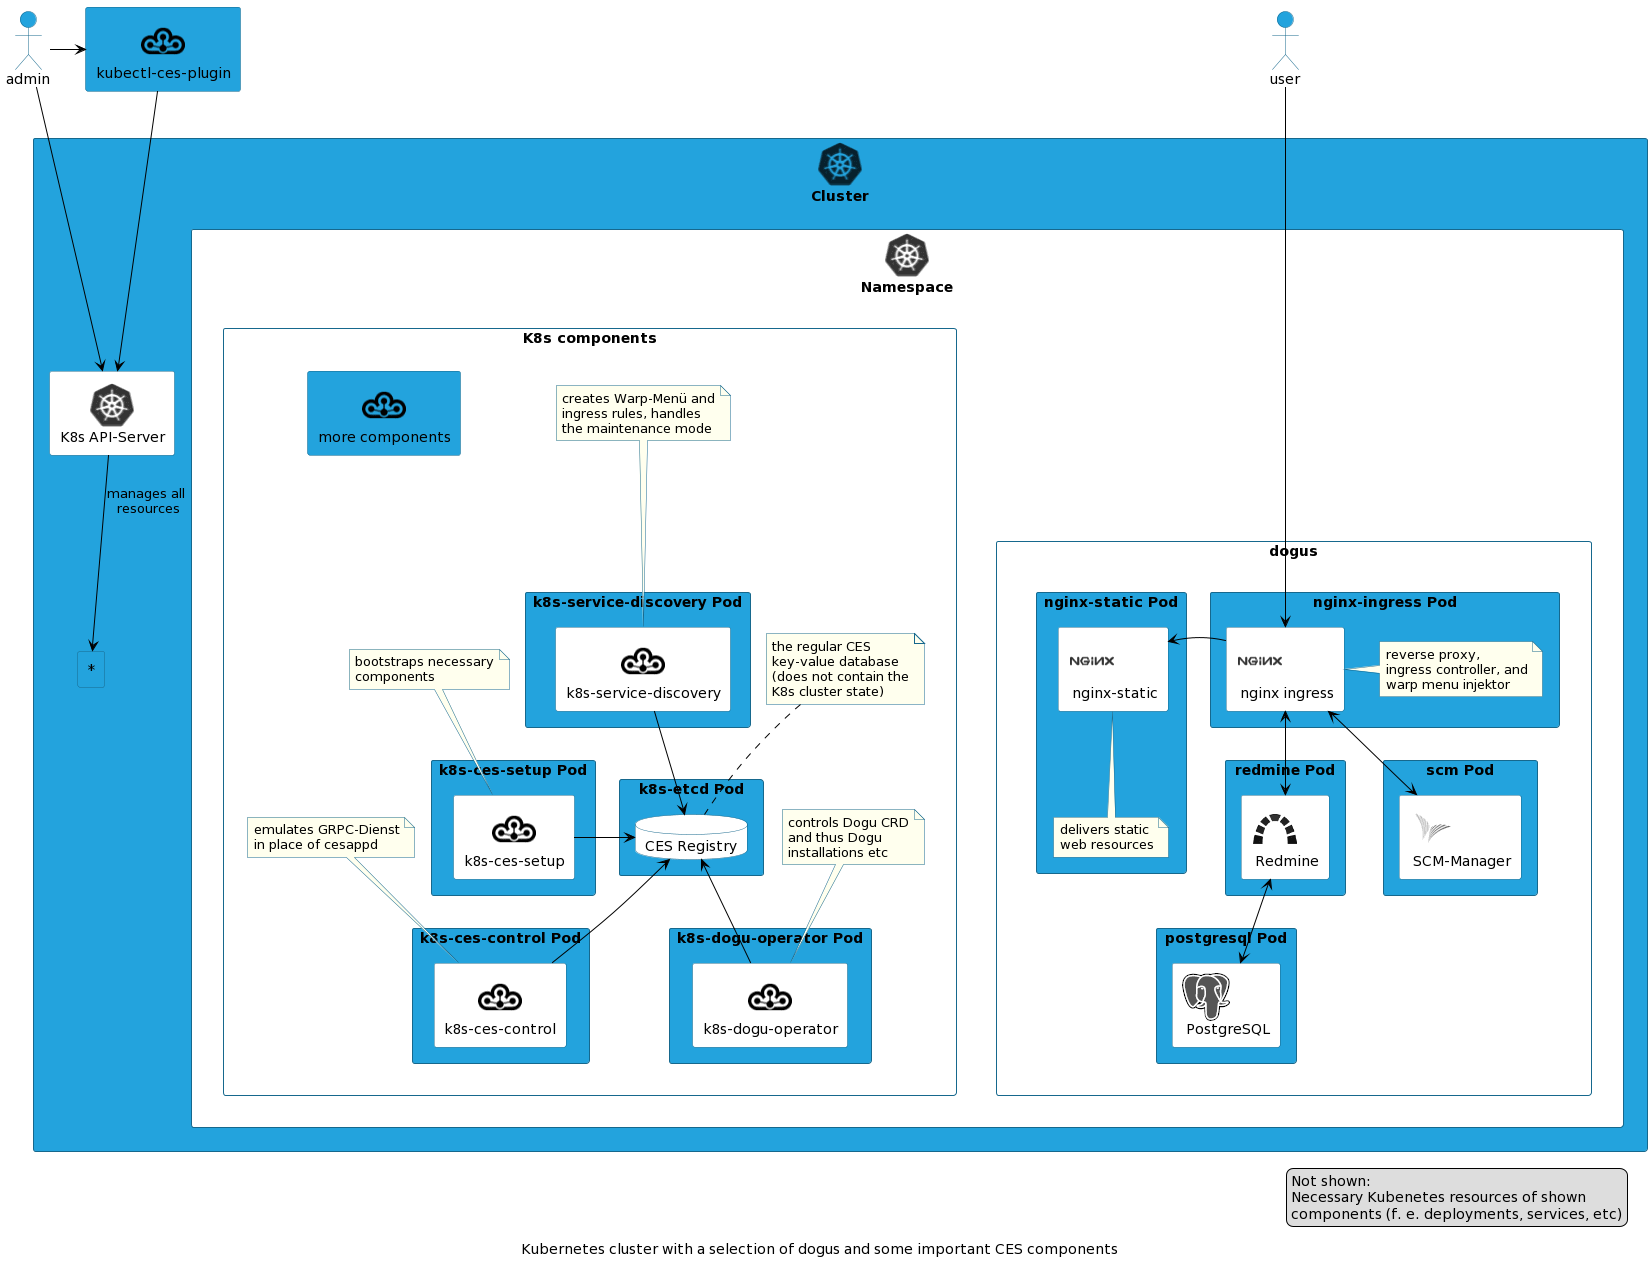
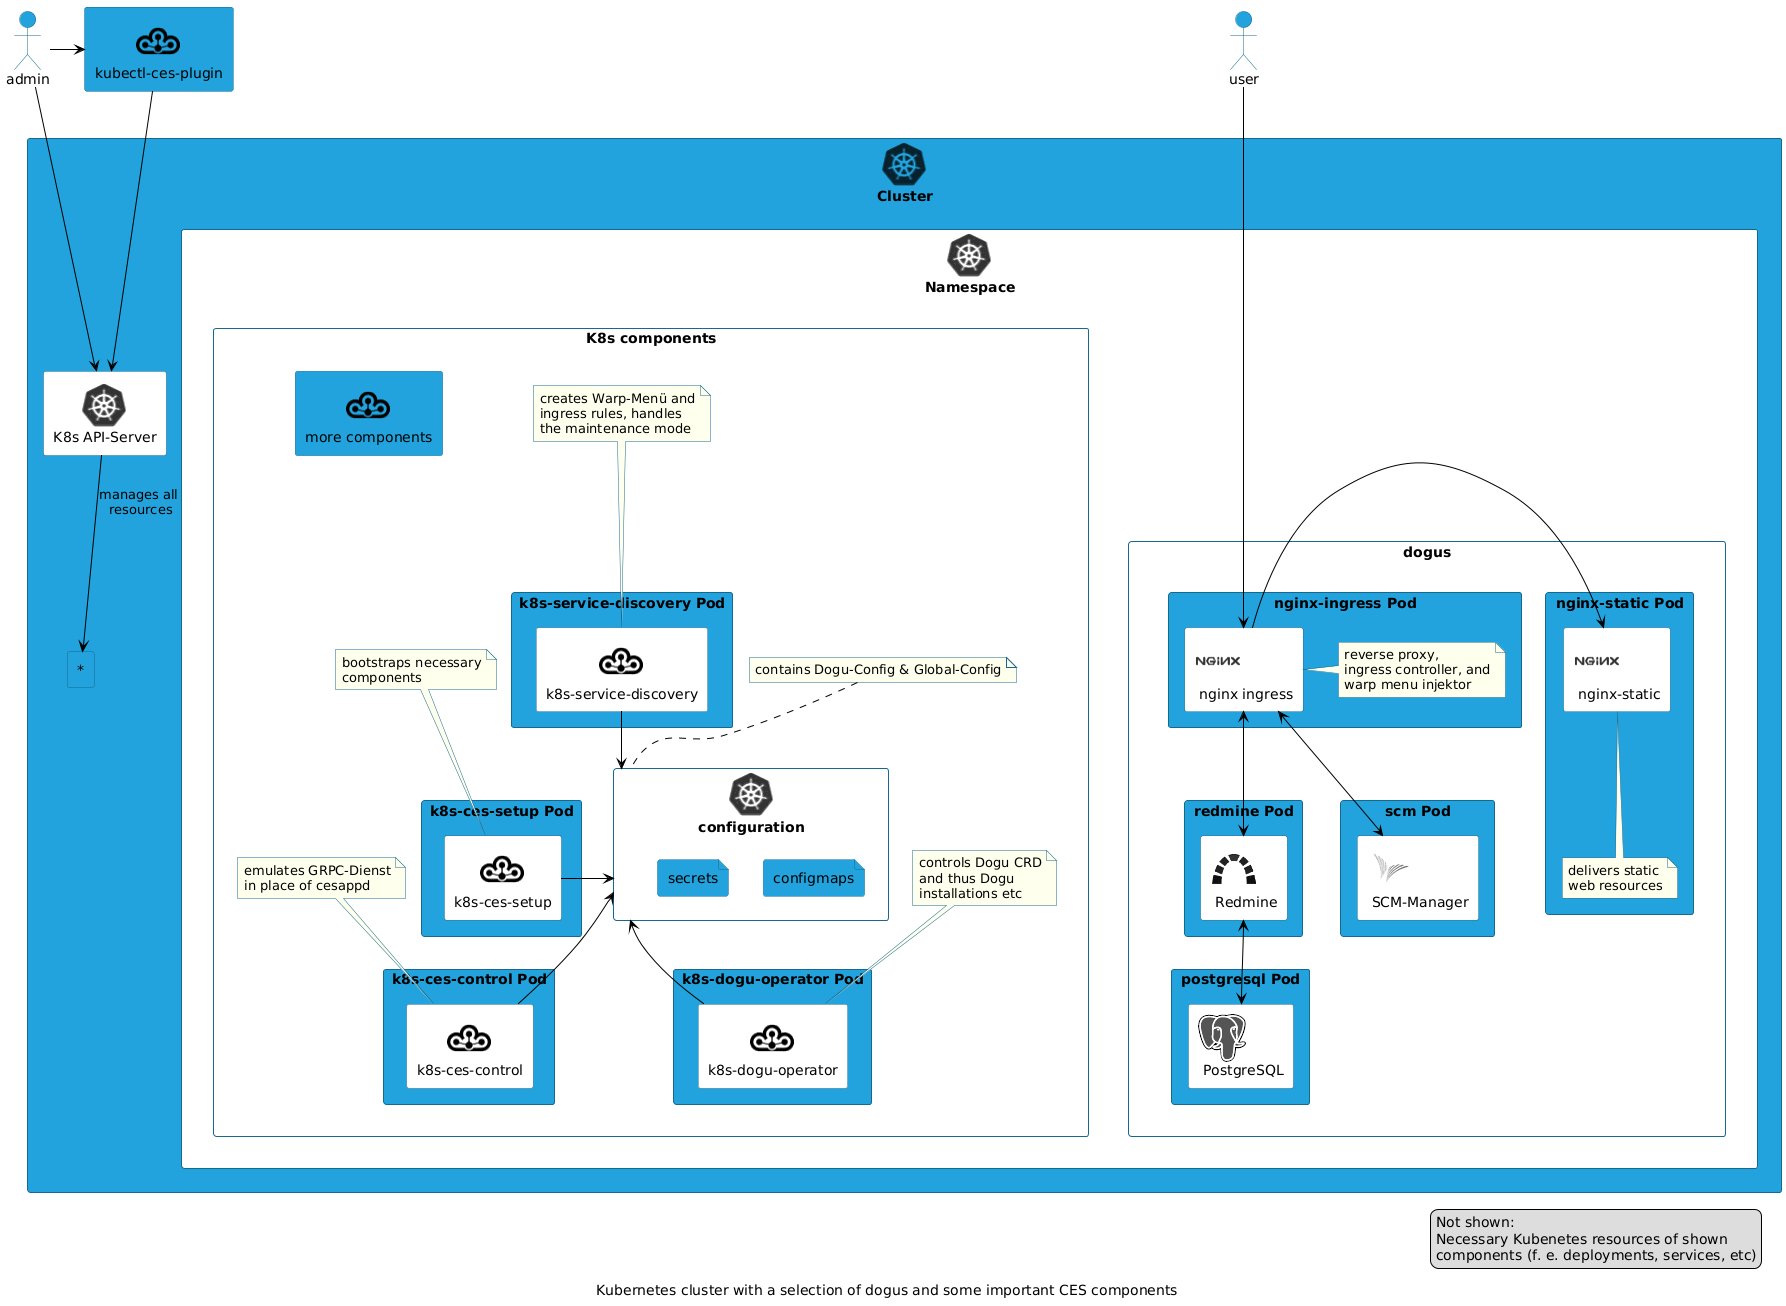
#109 - Remove ETCD from docs

diff --git a/docs/operations/how_to_handle_network_changes_de.md b/docs/operations/how_to_handle_network_changes_de.md
@@ -34,7 +34,9 @@ den FQDN in der lokalen Registry und den zugehörigen SSL-Zertifikaten anzupasse
 Die Konfiguration des FQDN im CES kann wie folgt geändert werden:
 
 ```bash
-kubectl exec -it etcd-client -- etcdctl set /config/_global/fqdn your.new.fqdn
+kubectl get configmap global-config -n ecosystem -o yaml | \
+yq eval '.data["config.yaml"] |= (from_yaml | .fqdn = "your.new.fqdn" | to_yaml)' - | \
+kubectl apply -f -
 ```
 
 Gegebenenfalls müssen auch die eigenen DNS- oder `/etc/hosts`-Einträge an den neuen FQDN angepasst werden.
@@ -47,14 +49,34 @@ generiert oder von einem externen Zertifikatsaussteller stammen.
 1. [SSL-Vorlage] erstellen (https://github.com/cloudogu/ces-commons/blob/develop/deb/etc/ces/ssl.conf.tpl)
 2. Zertifikat und Schlüssel generieren (
    siehe [`ces-commons`](https://github.com/cloudogu/ces-commons/blob/develop/deb/usr/local/bin/ssl.sh))
-3. Zertifikate und alle Zwischenzertifikate in `etcd` austauschen
-    1. kubectl exec -it etcd-client -- etcdctl set /config/_global/certificate/server.crt "IHRE ZERTIFIKATE HIER"`.
-    2. kubectl exec -it etcd-client -- etcdctl set /config/_global/certificate/server.key "IHR ZERTIFIKATSSCHLÜSSEL"`
+3. Zertifikate und alle Zwischenzertifikate in `global-config` Configmap austauschen
+   1. 
+      ```
+      kubectl get configmap global-config -n ecosystem -o yaml | \
+      yq eval '.data["config.yaml"] |= (from_yaml | .certificate["server.crt"] = "IHRE ZERTIFIKATE HIER" | to_yaml)' - | \
+      kubectl apply -f -
+      ```
+   2.
+      ```
+      kubectl get configmap global-config -n ecosystem -o yaml | \
+      yq eval '.data["config.yaml"] |= (from_yaml | .certificate["server.key"] = "IHR ZERTIFIKATSSCHLÜSSEL" | to_yaml)' - | \
+      kubectl apply -f -
+      ```
 4. Starten Sie alle Dogus neu.
 
 ### Zertifikate von externen Herausgebern
 
-1. Ersetzen Sie Zertifikate und alle Zwischenzertifikate in `etcd
-    1. kubectl exec -it etcd-client -- etcdctl set /config/_global/certificate/server.crt "IHRE ZERTIFIKATE"`
-    2. kubectl exec -it etcd-client -- etcdctl set /config/_global/certificate/server.key "IHR ZERTIFIKATSCHLÜSSEL"`
+1. Ersetzen Sie Zertifikate und alle Zwischenzertifikate in `global-config` Configmap
+   1.
+   ```
+   kubectl get configmap global-config -n ecosystem -o yaml | \
+   yq eval '.data["config.yaml"] |= (from_yaml | .certificate["server.crt"] = "IHRE ZERTIFIKATE HIER" | to_yaml)' - | \
+   kubectl apply -f -
+   ```
+   2.
+   ```
+   kubectl get configmap global-config -n ecosystem -o yaml | \
+   yq eval '.data["config.yaml"] |= (from_yaml | .certificate["server.key"] = "IHR ZERTIFIKATSSCHLÜSSEL" | to_yaml)' - | \
+   kubectl apply -f -
+   ```
 2. Starten Sie alle Dogus neu.

diff --git a/docs/operations/how_to_handle_network_changes_en.md b/docs/operations/how_to_handle_network_changes_en.md
@@ -31,7 +31,9 @@ local registry and the associated SSL certificates.
 The configuration of the FQDN in the CES can be changed as follows:
 
 ```bash
-kubectl exec -it etcd-client -- etcdctl set /config/_global/fqdn your.new.fqdn
+kubectl get configmap global-config -n ecosystem -o yaml | \
+yq eval '.data["config.yaml"] |= (from_yaml | .fqdn = "your.new.fqdn" | to_yaml)' - | \
+kubectl apply -f -
 ```
 
 If necessary, own DNS or `/etc/hosts` entries must also be adjusted to the new FQDN.
@@ -44,14 +46,32 @@ self-generated or from an external certificate issuer.
 1. create [SSL template](https://github.com/cloudogu/ces-commons/blob/develop/deb/etc/ces/ssl.conf.tpl)
 2. generate certificate and key (
    see [`ces-commons`](https://github.com/cloudogu/ces-commons/blob/develop/deb/usr/local/bin/ssl.sh))
-3. exchange certificates and all intermediate certificates in `etcd
-    1. `kubectl exec -it etcd-client -- etcdctl set /config/_global/certificate/server.crt "YOUR CERTIFICATES HERE"`.
-    2. `kubectl exec -it etcd-client -- etcdctl set /config/_global/certificate/server.key "YOUR CERTIFICATE KEY"`
-4. restart all dogus
+3. exchange certificates and all intermediate certificates in `global-config` configmap
+   1.
+   ```
+   kubectl get configmap global-config -n ecosystem -o yaml | \
+   yq eval '.data["config.yaml"] |= (from_yaml | .certificate["server.crt"] = "IHRE ZERTIFIKATE HIER" | to_yaml)' - | \
+   kubectl apply -f -
+   ```
+   2.
+   ```
+   kubectl get configmap global-config -n ecosystem -o yaml | \
+   yq eval '.data["config.yaml"] |= (from_yaml | .certificate["server.key"] = "IHR ZERTIFIKATSSCHLÜSSEL" | to_yaml)' - | \
+   kubectl apply -f -
+   ```4. restart all dogus
 
 ### Certificates from external issuers
 
-1. replace certificates and all intermediate certificates in `etcd
-    1. `kubectl exec -it etcd-client -- etcdctl set /config/_global/certificate/server.crt "YOUR CERTIFICATES HERE"`
-    2. `kubectl exec -it etcd-client -- etcdctl set /config/_global/certificate/server.key "YOUR CERTIFICATE KEY"`
-2. restart all dogus
+1. replace certificates and all intermediate certificates in `global-config` configmap
+   1.
+   ```
+   kubectl get configmap global-config -n ecosystem -o yaml | \
+   yq eval '.data["config.yaml"] |= (from_yaml | .certificate["server.crt"] = "IHRE ZERTIFIKATE HIER" | to_yaml)' - | \
+   kubectl apply -f -
+   ```
+   2.
+   ```
+   kubectl get configmap global-config -n ecosystem -o yaml | \
+   yq eval '.data["config.yaml"] |= (from_yaml | .certificate["server.key"] = "IHR ZERTIFIKATSSCHLÜSSEL" | to_yaml)' - | \
+   kubectl apply -f -
+   ```2. restart all dogus

diff --git a/docs/operations/k8s-ces-architecture-overview_en.md b/docs/operations/k8s-ces-architecture-overview_en.md
@@ -26,8 +26,6 @@ The following Kubernetes components are used in the Kubernetes Cloudogu EcoSyste
   - manages TLS certificates of the Cloudogu EcoSystem
 - [k8s-component-operator](https://github.com/cloudogu/k8s-component-operator)
   - manages K8s CES components in terms of their installation, update and uninstallation.
-- [k8s-etcd](https://github.com/cloudogu/k8s-etcd)
-  - provides the local Cloudogu EcoSystem Registry
 - [k8s-ces-control](https://github.com/cloudogu/k8s-ces-control)
   - provides protected access to administration operations with the Admin-Dogu
 - [k8s-host-change](https://github.com/cloudogu/k8s-host-change)
@@ -54,7 +52,7 @@ Against the backdrop of Kubernetes, not only the setup process changes. Most of 
 
 The process to a Dogu installation with its involved components is illustrated in the following diagram:
 
-[](figures/k8s-dogu-operator-dogu-installation_en.png)
+
 ![PlantUML diagram: k8s-dogu-operator interprets the dogu.json and creates all necessary Kubernetes resources from it](figures/k8s-dogu-operator-dogu-installation_en.png
 "k8s-dogu-operator interprets dogu.json and creates all necessary Kubernetes resources from it.")
 

diff --git a/docs/development/testing_split_dns_en.md b/docs/development/testing_split_dns_en.md
@@ -9,7 +9,7 @@ To test this scenario, the "split_dns" folder has been prepared for the followin
 - Make sure to create the files split_dns/certs/fullchain.pem and split_dns/certs/privkey.pem:
   - Get fullchain.pem from the cluster
     - `kubectl get secret ecosystem-certificate -n ecosystem -o json | jq -r '.data."tls.crt"' | base64 --decode`
-  - Get privkey.pem from the etcd in the cluster:
+  - Get privkey.pem from the cluster:
     - `kubectl get secret ecosystem-certificate -n ecosystem -o json | jq -r '.data."tls.key"' | base64 --decode`
 - Run the nginx reverse proxy for this test via `docker-compose up` inside the split_dns folder
 - Now you should be able to use the k8s-CES via the "splittest.local" FQDN

diff --git a/docs/operations/k8s-ces-architecture-overview_de.md b/docs/operations/k8s-ces-architecture-overview_de.md
@@ -26,8 +26,6 @@ Die folgenden Kubernetes-Komponenten kommen im Kubernetes Cloudogu EcoSystem zum
   - verwaltet TLS-Zertifikate des Cloudogu EcoSystem
 - [k8s-component-operator](https://github.com/cloudogu/k8s-component-operator)
   - verwaltet K8s-CES-Komponenten hinsichtlich ihrer Installation, Aktualisierung und Deinstallation
-- [k8s-etcd](https://github.com/cloudogu/k8s-etcd)
-  - stellt die lokale Cloudogu EcoSystem Registry zur Verfügung
 - [k8s-ces-control](https://github.com/cloudogu/k8s-ces-control)
   - ermöglicht geschützten Zugang zu Administrationsvorgängen mit dem Admin-Dogu
 - [k8s-host-change](https://github.com/cloudogu/k8s-host-change)
